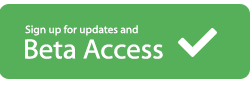
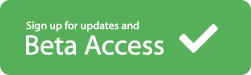
Link to app store

diff --git a/stylesheets/styles.css b/stylesheets/styles.css
@@ -76,8 +76,8 @@ div#top_content {
 		div#top_content div#app_description div.actions { margin-top: 50px; }
 			div#top_content div#app_description div.actions a.app_store {
 				width: 251px;
-				height: 85px;
-				background: url('../images/new-app-button-soon.png') no-repeat top;
+				height: 75px;
+				background: url('../images/app_store_soon.gif') no-repeat top;
 				display: block;
 				text-indent: -999999px;
 				float: left;

diff --git a/index.html b/index.html
@@ -50,7 +50,7 @@
 				</ul>
 			
 				<div class="actions">
-					<a href="#" class="app_store">Available on the iPhone</a>
+					<a href="https://itunes.apple.com/us/app/twenty-app/id877056868?ls=1&mt=8" class="app_store">Available on the iPhone</a>
 					<a href="beta-signup.html" class="app_store beta_access">Sign up for Beta Access</a>
 					<!-- <p>
 						<b>Requirements:</b>
